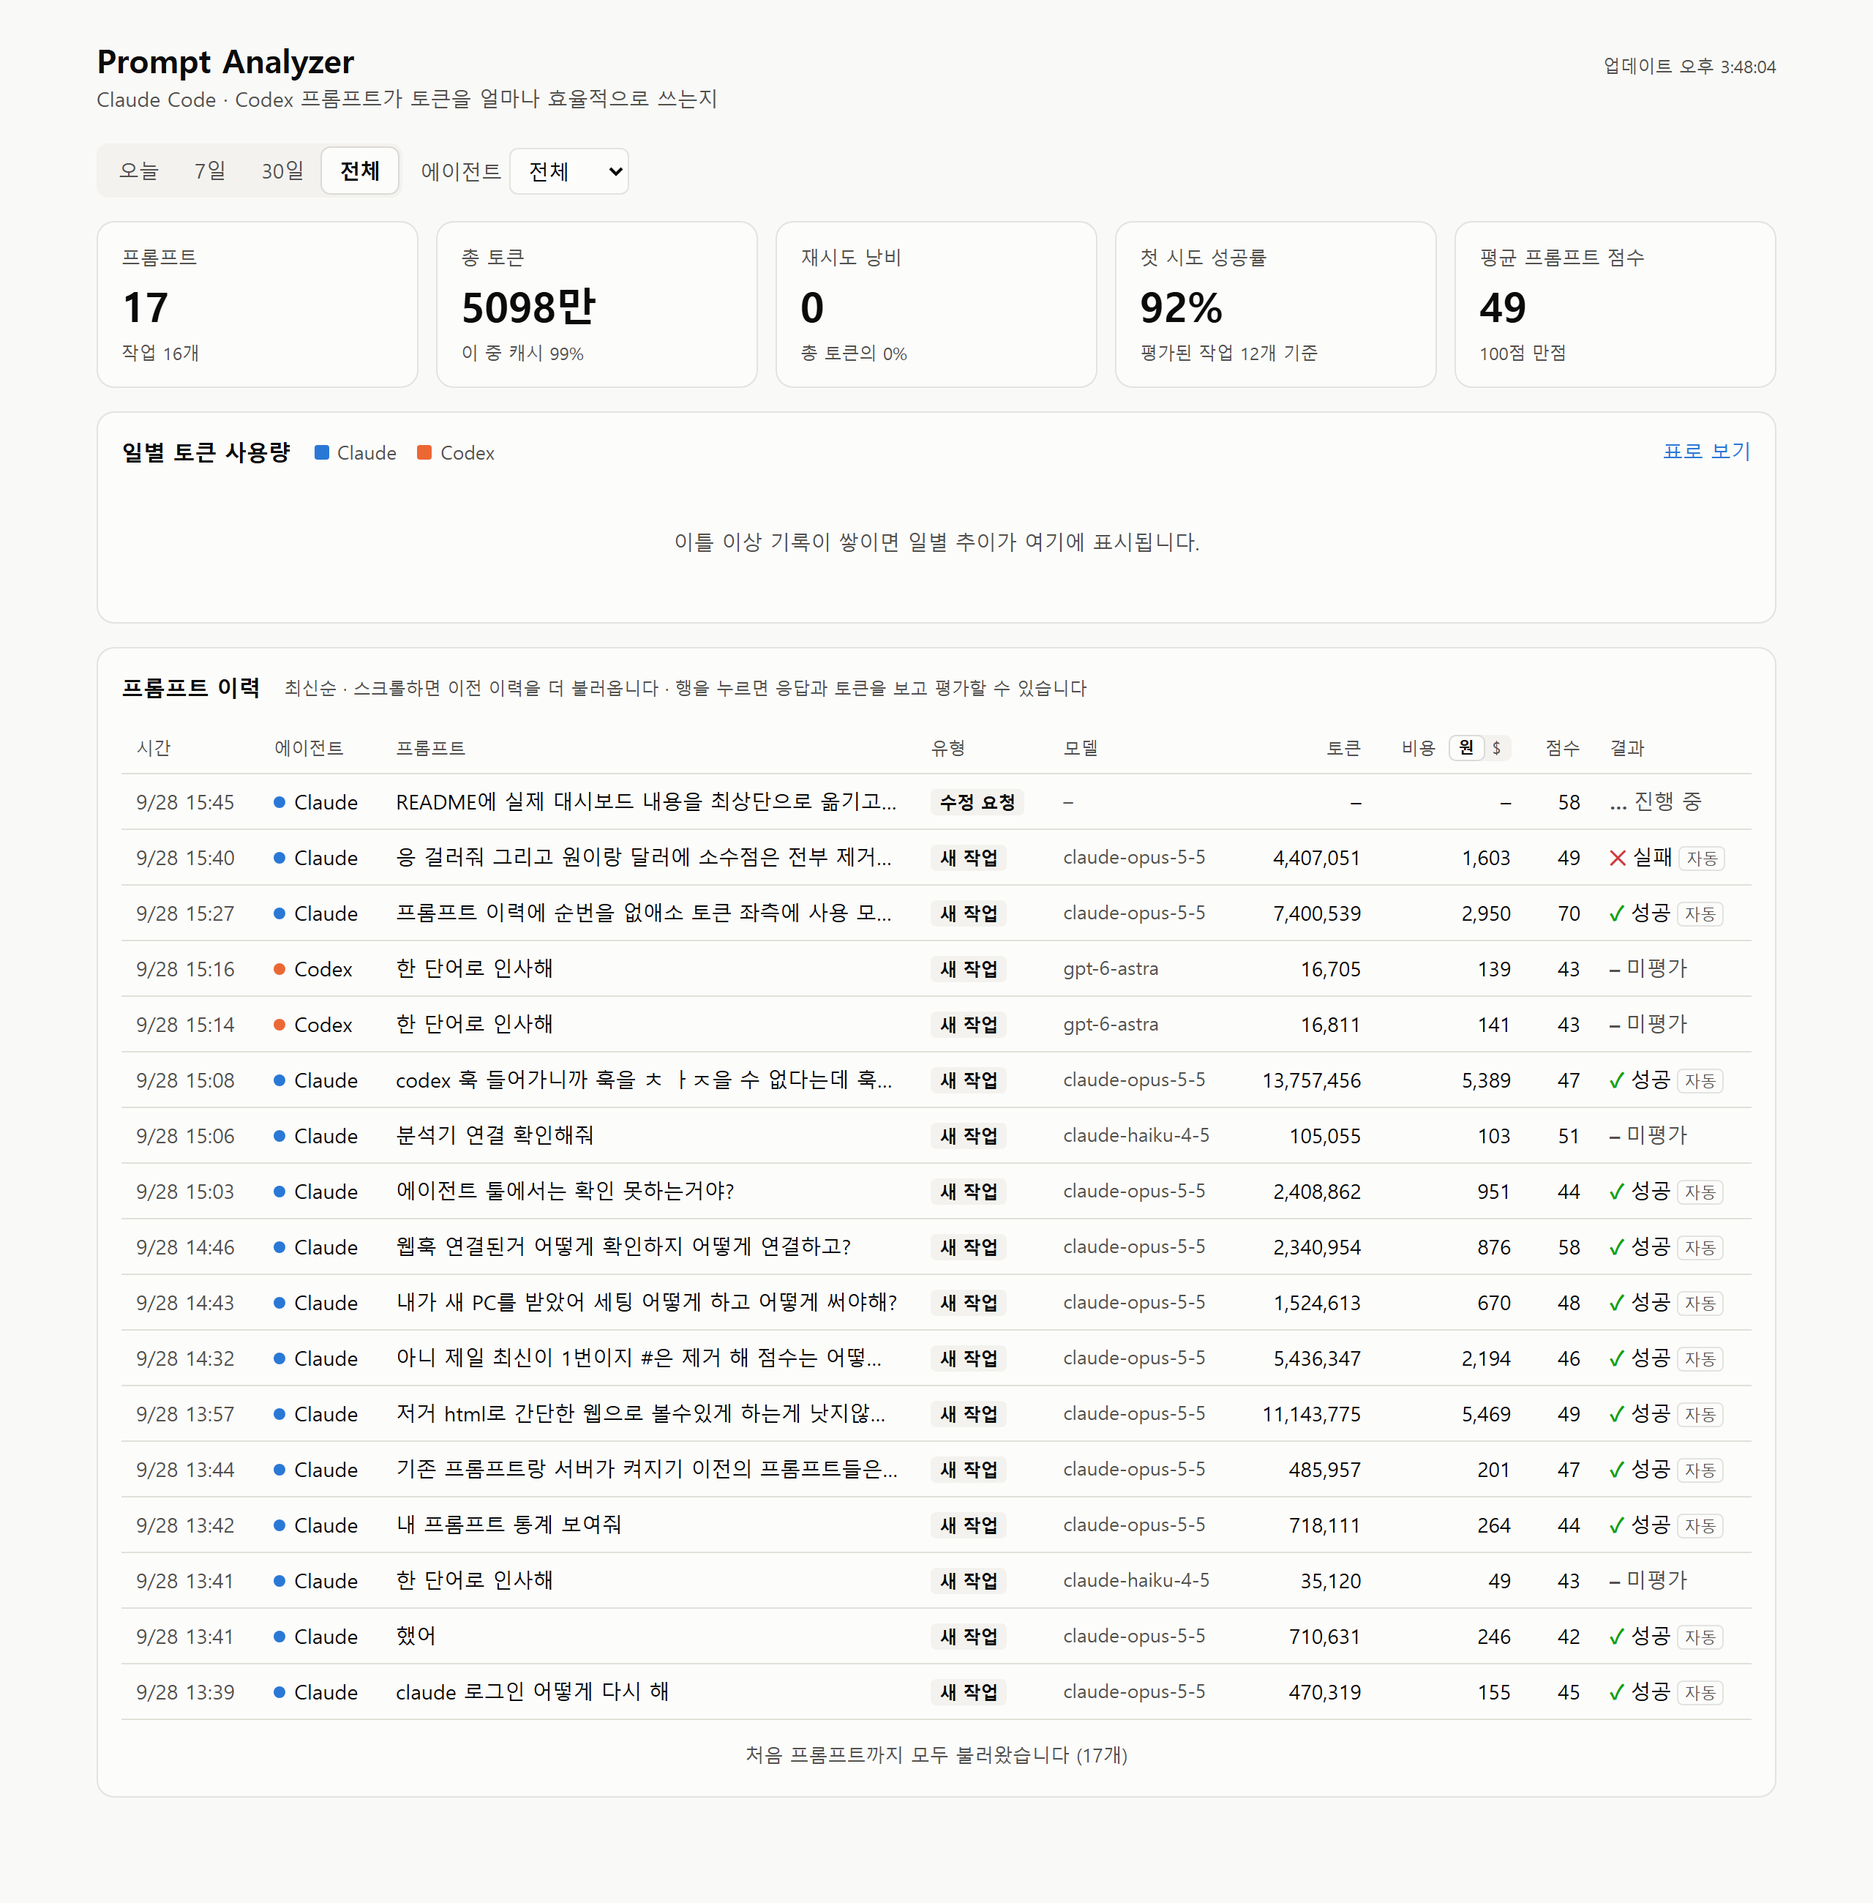
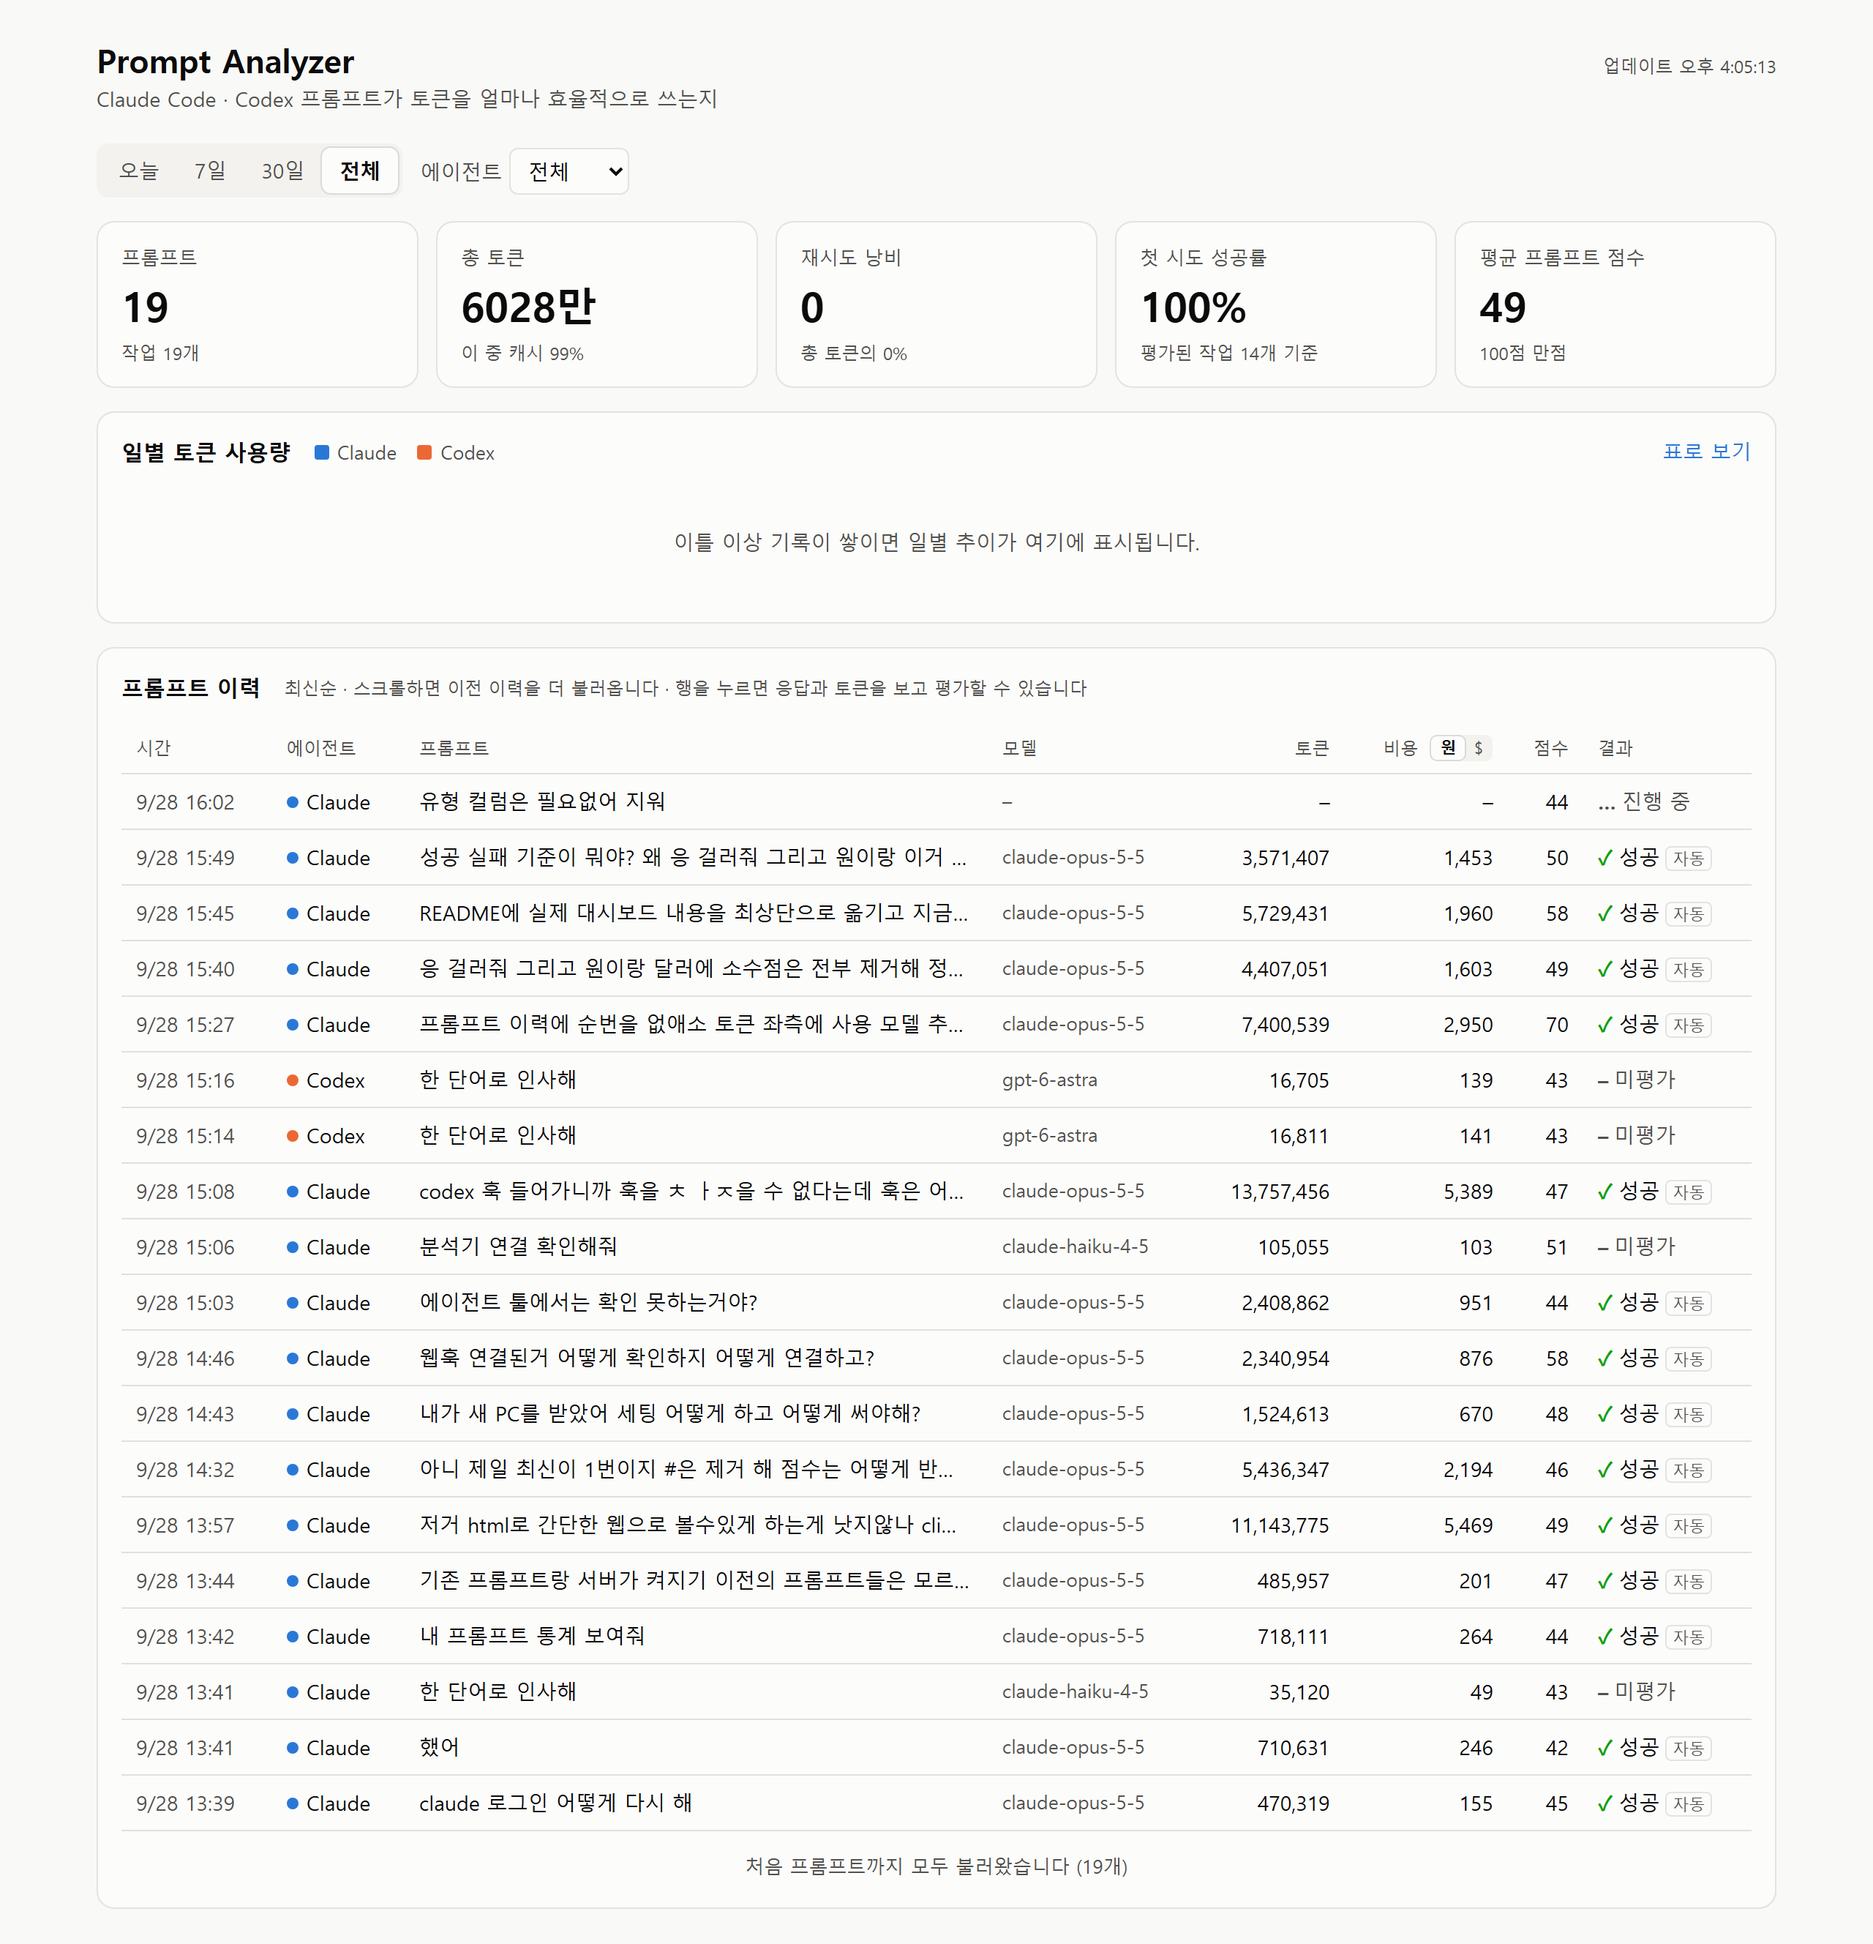
Drop the 유형 column from the prompt history
The history keeps 시간, 에이전트, 프롬프트, 모델, 토큰, 비용, 점수, 결과.
README screenshot recaptured from the live dashboard (light mode).

diff --git a/web/index.html b/web/index.html
@@ -76,7 +76,6 @@ tr.detail > td { background: var(--page); padding: 12px; }
 .run { background: var(--surface); border: 1px solid var(--border); border-radius: 10px; padding: 12px 14px; margin-bottom: 10px; }
 .run:last-child { margin-bottom: 0; }
 .run-head { display: flex; gap: 10px; flex-wrap: wrap; align-items: baseline; margin-bottom: 8px; }
-.badge { white-space: nowrap; font-size: 12px; font-weight: 600; background: var(--raised); border-radius: 4px; padding: 1px 6px; }
 .meta { color: var(--ink-2); font-size: 12px; }
 .field { margin: 6px 0; }
 .field .k { color: var(--ink-2); font-size: 12px; }
@@ -148,7 +147,7 @@ tbody tr.item:hover, tbody tr.item:focus { background: var(--raised); outline: n
       <div class="scroll">
         <table>
           <thead><tr>
-            <th>시간</th><th>에이전트</th><th>프롬프트</th><th>유형</th><th>모델</th>
+            <th>시간</th><th>에이전트</th><th>프롬프트</th><th>모델</th>
             <th class="num">토큰</th>
             <th class="num" id="cost-head">비용 <span class="unit-toggle" role="group" aria-label="통화"><button data-cur="krw">원</button><button data-cur="usd">$</button></span></th>
             <th class="num" title="프롬프트 점수 = 명확성 40% + 구체성 35% + 구조 25%">점수</th><th>결과</th>
@@ -193,7 +192,6 @@ const ORDER = ['claude', 'codex', 'api'];
 // Color follows the agent, never its rank.
 const color = (src) => { const i = ORDER.indexOf(src); return i >= 0 ? `var(--series-${i + 1})` : 'var(--other)'; };
 const agentName = (src) => AGENTS[src] || src;
-const INTERACTION = { NEW_TASK: '새 작업', RETRY: '재시도', REFINE: '수정 요청' };
 const tz = Intl.DateTimeFormat().resolvedOptions().timeZone;
 
 const state = {
@@ -415,13 +413,12 @@ function renderItems() {
       h('td', { class: 'no' }, when(it.created_at)),
       h('td', { style: 'white-space:nowrap' }, h('i', { class: 'dot', style: `background:${color(it.source)}` }), agentName(it.source)),
       h('td', { class: 'prompt', title: it.prompt }, it.prompt),
-      h('td', {}, h('span', { class: 'badge' }, INTERACTION[it.interaction] || it.interaction)),
       h('td', { class: 'model', title: it.model }, shortModel(it.model, it.source)),
       h('td', { class: 'num' }, done ? num(it.input_tokens + it.output_tokens) : '–'),
       h('td', { class: 'num' }, done ? money(it.cost_usd) : '–'),
       h('td', { class: 'num' }, f0(it.prompt_score)),
       h('td', {}, statusCell(it))));
-    if (state.open.has(it.no)) body.append(h('tr', { class: 'detail' }, h('td', { colspan: 9 }, detail(it))));
+    if (state.open.has(it.no)) body.append(h('tr', { class: 'detail' }, h('td', { colspan: 8 }, detail(it))));
   }
 }
 
